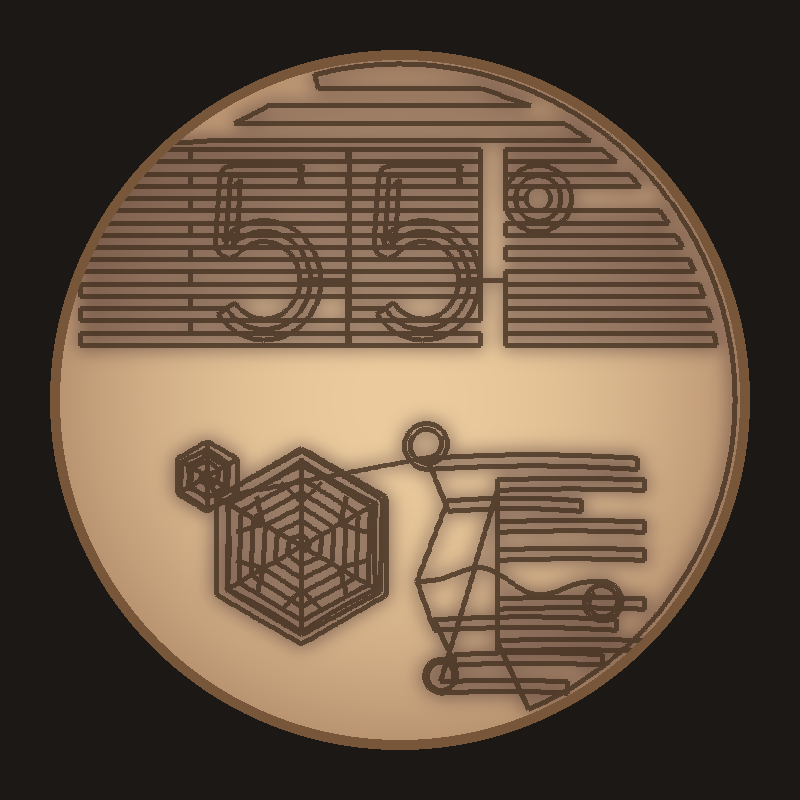
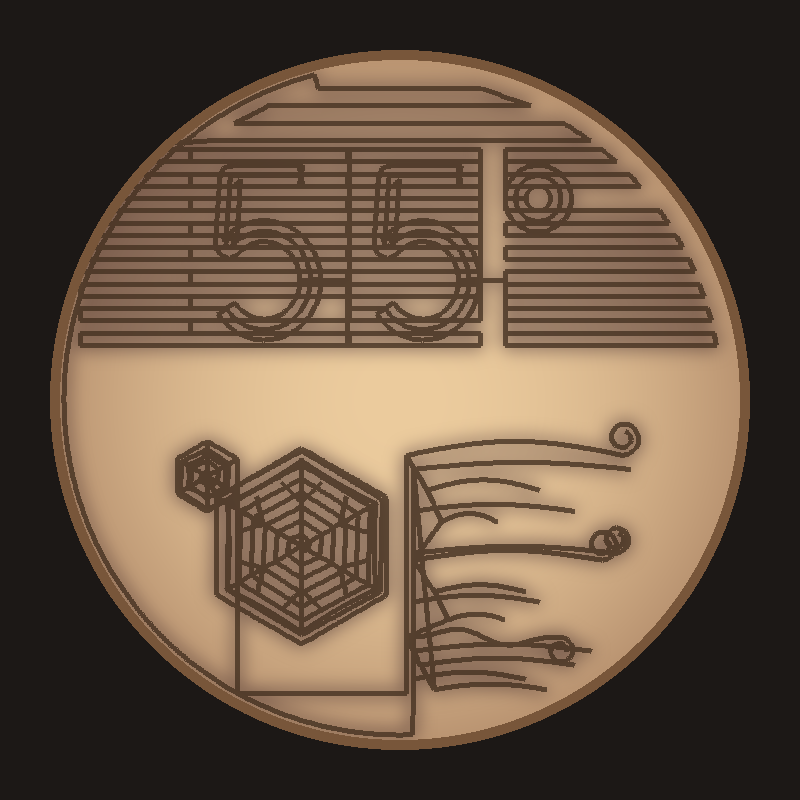
Redraw wind, hot, and cold so each symbol is distinct
Wind is bowed swooshes with a curl on the long tip, retraced instead of
hatched, and the combined pictures keep those gusts beside the symbol.
Hot is a high thermometer with heat waves. Cold is a low thermometer
with a small flake and icicles.

diff --git a/custom_components/homedics_drift/weather_design.py b/custom_components/homedics_drift/weather_design.py
@@ -770,19 +770,6 @@ def scene(name):
         def mist(s, k):
             return 0.026 * math.sin(3.3 * s + 0.55 * k)
         return banks, [(parallel_rows(0, 0.058, mist), Frame())]
-    if name == "hot":
-        # More rays than the fair-weather sun, so the disc reads as blazing.
-        day = sun((0, -0.42), 0.15, 0.36, rays=14, disc=0.14)
-        return [day], [(ring_rows(day.c, day.rmax + 0.06, 0.10), Frame())]
-    if name == "cold":
-        frost = flake((0, -0.42), 0.40)
-        spark = [
-            sun((-0.55, -0.22), 0.05, 0.09, rays=4, disc=0.02),
-            sun((0.55, -0.22), 0.05, 0.09, rays=4, disc=0.02),
-        ]
-        return [frost, *spark], [
-            (parallel_rows(0, 0.09, lambda s, k: 0.012 * math.sin(2.0 * s + 0.4 * k)), Frame())
-        ]
     if name == "hail":
         sky = cloud((0, -0.22), 0.82, 0.30)
         stones = [
@@ -829,104 +816,134 @@ def scene(name):
     )
 
 
-def _stroke_twice(pts):
-    """Outline drawn twice: out along the stroke, back on a parallel just beside it."""
-    sampled = [pts[0]]
-    for p in pts[1:]:
-        if math.dist(sampled[-1], p) > 1e-9:
-            sampled += line(sampled[-1], p)[1:]
-    side = offset(sampled, 0.03)
-    return sampled + side[::-1]
-
-
 def _resample(pts):
     sampled = [pts[0]]
-    for p in pts[1:]:
-        if math.dist(sampled[-1], p) > 1e-9:
-            sampled += line(sampled[-1], p)[1:]
+    for point in pts[1:]:
+        if math.dist(sampled[-1], point) > 1e-9:
+            sampled += line(sampled[-1], point)[1:]
     return sampled
 
 
-def _curl_then_tail(join, tail, hang="above", radius=0.11, turns=2.15):
-    """Curl drawn twice, then the tail, then back just beside the tail.
-
-    The third pass along the curl is the ball travelling out to the tail.
-    Finishes beside the left end of the tail.
-    """
-    curl = _resample(_curl_out(join, hang, radius, turns))
-    tail = _resample(tail)
-    back = offset(tail, 0.032)[::-1]
-    return curl + curl[::-1][1:] + curl[1:] + tail[1:] + back
-
-
-def _tail_then_curl(tail, join, hang="below", radius=0.09, turns=2.05):
-    """Tail into a curl. The curl is drawn twice; the tail comes back beside itself.
-
-    Finishes beside the left end of the tail.
-    """
-    tail = _resample(tail)
-    curl = _resample(_curl_in(join, hang, radius, turns))
-    back = offset(tail, 0.032)[::-1]
-    return tail + curl[1:] + curl[::-1][1:] + line(join, back[0])[1:] + back
-
-
 def _retrace(pts):
-    """The same stroke twice, so a curve does not weave across itself."""
+    """Out and back on the same groove: one stroke, drawn twice."""
     pts = _resample(pts)
     return pts + pts[::-1][1:]
 
 
-def _lay(path, pts):
-    if path and math.dist(path[-1], pts[0]) > 1e-6:
-        path += line(path[-1], pts[0])[1:]
-    path += pts
+def _bow(x0, x1, y, bow):
+    """A horizontal stroke bowed up in the middle."""
+    n = max(3, int(abs(x1 - x0) / STEP))
+    pts = []
+    for i in range(n + 1):
+        t = i / n
+        pts.append((x0 + (x1 - x0) * t, y + bow * math.sin(math.pi * t)))
+    return pts
+
+
+def _open_curl(tip, radius, turns=1.45, up=True):
+    """Open spiral on a rightward tip. About one and a half turns."""
+    inner = max(0.018, radius * 0.26)
+    if up:
+        center = (tip[0], tip[1] + radius)
+        angle, spin = -math.pi / 2, 1.0
+    else:
+        center = (tip[0], tip[1] - radius)
+        angle, spin = math.pi / 2, -1.0
+    arc = abs(turns) * math.pi * (radius + inner)
+    n = max(12, int(arc / STEP))
+    pts = []
+    for i in range(n + 1):
+        t = i / n
+        pts.append(polar(
+            center,
+            radius + (inner - radius) * t,
+            angle + spin * turns * 2 * math.pi * t,
+        ))
+    return pts
+
+
+def _swoosh(x0, x1, y, bow, curl=0.0, up=True):
+    body = _bow(x0, x1, y, bow)
+    if curl <= 0:
+        return body
+    return body + _open_curl(body[-1], curl, 1.45, up)[1:]
+
+
+def _lay_retrace(path, pts):
+    stroke = _retrace(pts)
+    if path and math.dist(path[-1], stroke[0]) > 1e-6:
+        path += line(path[-1], stroke[0])[1:]
+    path += stroke
     return path
 
 
-def _tail_then_curl_same(tail, join, hang="below", radius=0.08, turns=2.1):
-    """An S or wave, drawn twice on the same groove, ending in a tight curl."""
-    tail = _resample(tail)
-    curl = _resample(_curl_in(join, hang, radius, turns))
-    return tail + curl[1:] + curl[::-1][1:] + tail[::-1][1:]
+def _stack(path, rows):
+    for x0, x1, y, bow, curl in rows:
+        _lay_retrace(path, _swoosh(x0, x1, y, bow, curl, up=True))
+    return path
 
 
 def wind_gusts():
-    """Classic wind marks filling the sand below the temperature.
+    """Bowed swooshes under the temperature, in staggered groups of three.
 
-    Five gusts, staggered by length, all blowing left to right. Stacked
-    swooshes, closer speed lines, and an S each end in a tight spiral. Every
-    stroke is drawn twice. The ball drops from the left end of one stroke to
-    the next, so the connecting travel stays on the stack.
+    The long line of each group runs into an open curl. The pen retraces the
+    stroke and only steps down at the shared left end.
     """
     path = []
-    left = -0.36
-
-    # (a) Three swooshes. The curl sits above the long line and stays under the panel.
-    join = (left, -0.18)
-    _lay(path, _curl_then_tail(join, _swoosh(join[0], 0.70, join[1], 0.012), "above", 0.09, 2.35))
-    _lay(path, _stroke_twice(_swoosh(left, 0.46, -0.27, 0.01)))
-    _lay(path, _stroke_twice(_swoosh(left, 0.18, -0.35, 0.008)))
-
-    # (c) Three speed lines. The long one curls at the right, clear of the shorter tails.
-    _lay(path, _tail_then_curl(
-        _swoosh(left, 0.48, -0.46, 0.006), (0.48, -0.46), "above", 0.075, 2.2,
-    ))
-    _lay(path, _stroke_twice(_swoosh(left, 0.26, -0.525, 0.005)))
-    _lay(path, _stroke_twice(_swoosh(left, 0.06, -0.585, 0.004)))
-
-    # (b) A wide S across the lower middle, curl hanging under the right end.
-    _lay(path, _tail_then_curl_same(
-        _s_curve(-0.58, 0.42, -0.68, 0.10), (0.42, -0.68), "below", 0.07, 2.15,
-    ))
-
-    # (a) Two shorter swooshes along the bottom, curl on the left.
-    join = (-0.22, -0.80)
-    _lay(path, _curl_then_tail(join, _swoosh(join[0], 0.22, join[1], 0.006), "above", 0.055, 2.0))
-    _lay(path, _stroke_twice(_swoosh(join[0], 0.16, -0.865, 0.004)))
-    # Extra swooshes in the gaps, so the lower half stays full without crossing a curl.
-    _lay(path, _stroke_twice(_swoosh(-0.62, 0.66, -0.405, 0.01)))
-    _lay(path, _stroke_twice(_swoosh(-0.50, 0.10, -0.755, 0.008)))
+    left = -0.58
+    groups = (
+        (-0.14, (0.52, 0.18, -0.10), 0.04, 0.04),
+        (-0.38, (0.62, 0.26, -0.02), 0.032, 0.038),
+        (-0.60, (0.36, 0.06, -0.16), 0.026, 0.034),
+        (-0.78, (0.16, -0.08, -0.22), 0.02, 0.03),
+    )
+    for y0, ends, bow, curl in groups:
+        for index, x1 in enumerate(ends):
+            _lay_retrace(path, _swoosh(left, x1, y0 + index * 0.055, bow, curl if index == 0 else 0.0))
+    wave = _s_curve(left, 0.34, -0.74, 0.04)
+    _lay_retrace(path, wave[:-1] + _open_curl(wave[-1], 0.04, 1.3, up=False))
     return path
+
+
+def _along_rim(a, b):
+    """Out to the rim, along the edge, and back in."""
+    def onto(point):
+        radius = math.hypot(*point) or 1.0
+        return (point[0] / radius * RIM, point[1] / radius * RIM)
+    rim_a, rim_b = onto(a), onto(b)
+    return line(a, rim_a)[1:] + rim_arc(rim_a, rim_b) + line(rim_b, b)[1:]
+
+
+def _side_gusts():
+    """Three clean gusts on the right of a combined picture."""
+    path = []
+    _stack(path, [
+        (0.02, 0.64, -0.16, 0.04, 0.05),
+        (0.08, 0.40, -0.26, 0.03, 0.0),
+        (0.12, 0.28, -0.35, 0.024, 0.0),
+    ])
+    _stack(path, [
+        (0.04, 0.58, -0.46, 0.028, 0.045),
+        (0.10, 0.36, -0.55, 0.02, 0.0),
+        (0.14, 0.30, -0.63, 0.016, 0.0),
+    ])
+    wave = _s_curve(0.02, 0.46, -0.68, 0.035)
+    _lay_retrace(path, wave[:-1] + _open_curl(wave[-1], 0.04, 1.25, up=False))
+    _stack(path, [
+        (0.06, 0.50, -0.76, 0.02, 0.0),
+        (0.10, 0.42, -0.83, 0.016, 0.0),
+    ])
+    for x1, y, curl in (
+        (0.66, -0.20, 0.0),
+        (0.50, -0.32, 0.0),
+        (0.62, -0.44, 0.04),
+        (0.40, -0.58, 0.0),
+        (0.55, -0.72, 0.0),
+        (0.36, -0.80, 0.0),
+    ):
+        _lay_retrace(path, _swoosh(0.04, x1, y, 0.02, curl))
+    return path
+
 
 
 def _draw_shapes(shapes):
@@ -975,9 +992,9 @@ def _emblem(name):
     elif name == "fog":
         shapes = [band((-0.28, -0.32), 0.55, 0.14, 2.2, 0.4), band((-0.22, -0.55), 0.42, 0.12, 2.4, 1.2)]
     elif name == "hot":
-        shapes = [sun((-0.30, -0.42), 0.12, 0.26, rays=14, disc=0.10)]
+        shapes = [pebble((-0.34, -0.55), 0.14)]
     elif name == "cold":
-        shapes = [flake((-0.28, -0.42), 0.26)]
+        shapes = [pebble((-0.38, -0.58), 0.12), flake((-0.16, -0.40), 0.12, twigs=False)]
     elif name == "alert":
         shapes = [warning_sign((-0.28, -0.42), 0.28)]
     else:
@@ -985,32 +1002,90 @@ def _emblem(name):
     return _draw_shapes(shapes)
 
 
-def _side_gusts():
-    """A short run of the wind marks, on the right of a combined picture."""
-    path = []
-    _lay(path, _curl_then_tail((0.08, -0.20), _swoosh(0.08, 0.68, -0.20, 0.01), "above", 0.07, 2.0))
-    _lay(path, _stroke_twice(_swoosh(0.14, 0.52, -0.32, 0.008)))
-    _lay(path, _tail_then_curl_same(_s_curve(0.05, 0.58, -0.52, 0.06), (0.58, -0.52), "below", 0.06, 1.9))
-    _lay(path, _stroke_twice(_swoosh(0.10, 0.62, -0.66, 0.008)))
-    _lay(path, _stroke_twice(_swoosh(0.16, 0.58, -0.76, 0.006)))
-    _lay(path, _curl_then_tail((0.12, -0.84), _swoosh(0.12, 0.48, -0.84, 0.005), "above", 0.05, 1.8))
-    for y in (-0.26, -0.38, -0.46, -0.60, -0.72):
-        _lay(path, _stroke_twice(_swoosh(0.28, 0.70, y, 0.004)))
-    return path
-
-
 def combined_picture(base):
-    """The main symbol on the left, and curly gusts blowing through the right."""
+    """The symbol on the left, gusts on the right, joined along the rim."""
     symbol = _emblem(base)
     gusts = _side_gusts()
     if not symbol:
         return gusts
-    return symbol + line(symbol[-1], gusts[0])[1:] + gusts
+    # Drop below the symbol, run across in the margin, then rise to the gusts.
+    low = -0.84
+    start, end = symbol[-1], gusts[0]
+    link = (
+        line(start, (start[0], low))[1:]
+        + line((start[0], low), (end[0], low))[1:]
+        + line((end[0], low), end)[1:]
+    )
+    return symbol + link + gusts
+
+
+def _tube(x, y_neck, y_top, half_w):
+    left = [(x - half_w, y_neck), (x - half_w, y_top)]
+    cap = [polar((x, y_top), half_w, math.pi - math.pi * i / 16) for i in range(17)]
+    right = [(x + half_w, y_top), (x + half_w, y_neck)]
+    return _resample(left) + cap[1:] + _resample(right)[1:]
+
+
+def _heat_wave(x0, x1, y, amp, phase):
+    n = max(4, int(abs(x1 - x0) / STEP))
+    pts = []
+    for i in range(n + 1):
+        t = i / n
+        pts.append((x0 + (x1 - x0) * t, y + amp * math.sin(2.5 * math.pi * t + phase)))
+    return pts
+
+
+def hot_picture():
+    """Thermometer with the column near the top, and heat waves beside the glass."""
+    path = []
+    # Waves first, stacked at a shared end so the joins are short vertical steps.
+    for index, y in enumerate((-0.16, -0.28, -0.40, -0.52)):
+        _lay_retrace(path, _heat_wave(0.20, 0.68, y, 0.03, index * 0.6))
+    for index, y in enumerate((-0.22, -0.34, -0.46, -0.58, -0.70)):
+        _lay_retrace(path, _heat_wave(-0.70, -0.22, y, 0.026, index * 0.7))
+    for index, y in enumerate((0.00, -0.08)):
+        _lay_retrace(path, _heat_wave(0.22, 0.62, y, 0.02, index))
+    bulb = pebble((0.0, -0.60), 0.17)
+    path += line(path[-1], (0.0, -0.60))[1:] + bulb.draw((0.0, -0.43))
+    tube = _tube(0.0, -0.45, -0.12, 0.05)
+    path += line(path[-1], tube[0])[1:] + _retrace(tube)
+    column = [(0.0, -0.60), (0.0, -0.18)]
+    path += line(path[-1], column[0])[1:] + _retrace(column)
+    return path
+
+
+def cold_picture():
+    """Thermometer with the column still in the bulb, plus a small flake and icicles."""
+    bulb = pebble((-0.22, -0.50), 0.15)
+    path = bulb.draw((-0.22, -0.35))
+    tube = _tube(-0.22, -0.37, -0.12, 0.045)
+    path += line(path[-1], tube[0])[1:] + _retrace(tube)
+    column = [(-0.22, -0.50), (-0.22, -0.42)]
+    path += line(path[-1], column[0])[1:] + _retrace(column)
+    spark = flake((0.22, -0.32), 0.13, twigs=False)
+    # Leave the tube at its top and step across above the flake, then into its centre.
+    path += line(path[-1], (-0.22, -0.12))[1:]
+    path += line(path[-1], (0.22, -0.12))[1:]
+    path += line(path[-1], spark.c)[1:] + spark.draw((0.22, -0.50))
+    bar = _bow(-0.05, 0.55, -0.62, 0.0)
+    path += line(path[-1], bar[0])[1:] + _retrace(bar)
+    for x_pos, length in ((0.02, 0.08), (0.16, 0.14), (0.30, 0.11), (0.44, 0.07)):
+        icicle = [(x_pos, -0.62), (x_pos, -0.62 - length)]
+        path += line(path[-1], icicle[0])[1:] + _retrace(icicle)
+    for index, y in enumerate((-0.18, -0.30, -0.42, -0.54, -0.66)):
+        _lay_retrace(path, _heat_wave(0.40, 0.72, y, 0.022, index))
+    for index, y in enumerate((-0.26, -0.40)):
+        _lay_retrace(path, _heat_wave(-0.70, -0.42, y, 0.02, index))
+    return path
 
 
 def build(condition, value):
     if condition == "windy":
         path = wind_gusts()
+    elif condition == "hot":
+        path = hot_picture()
+    elif condition == "cold":
+        path = cold_picture()
     elif isinstance(condition, str) and condition.endswith("_wind"):
         path = combined_picture(condition[: -len("_wind")])
     else:

diff --git a/README.md b/README.md
@@ -225,8 +225,8 @@ The picture is one of these symbols, with the forecast high in big digits. Sun, 
 - **sunny** — a sun with pointed rays, and ripples across the table
 - **partlycloudy** — that sun, with some rays behind a cloud
 - **cloudy** — two clouds in drifting lines
-- **hot** — a sun with more rays, when the high reaches the hot threshold
-- **cold** — a frost flake, when the overnight low reaches the cold threshold
+- **hot** — a thermometer with the column near the top, and heat waves beside it
+- **cold** — a thermometer with the column still in the bulb, a small flake, and icicles
 - **clear_night** — a crescent moon and a few small stars
 - **fog** — stacked wavy mist bands
 - **rain** — a cloud and raindrops in slanting rain
